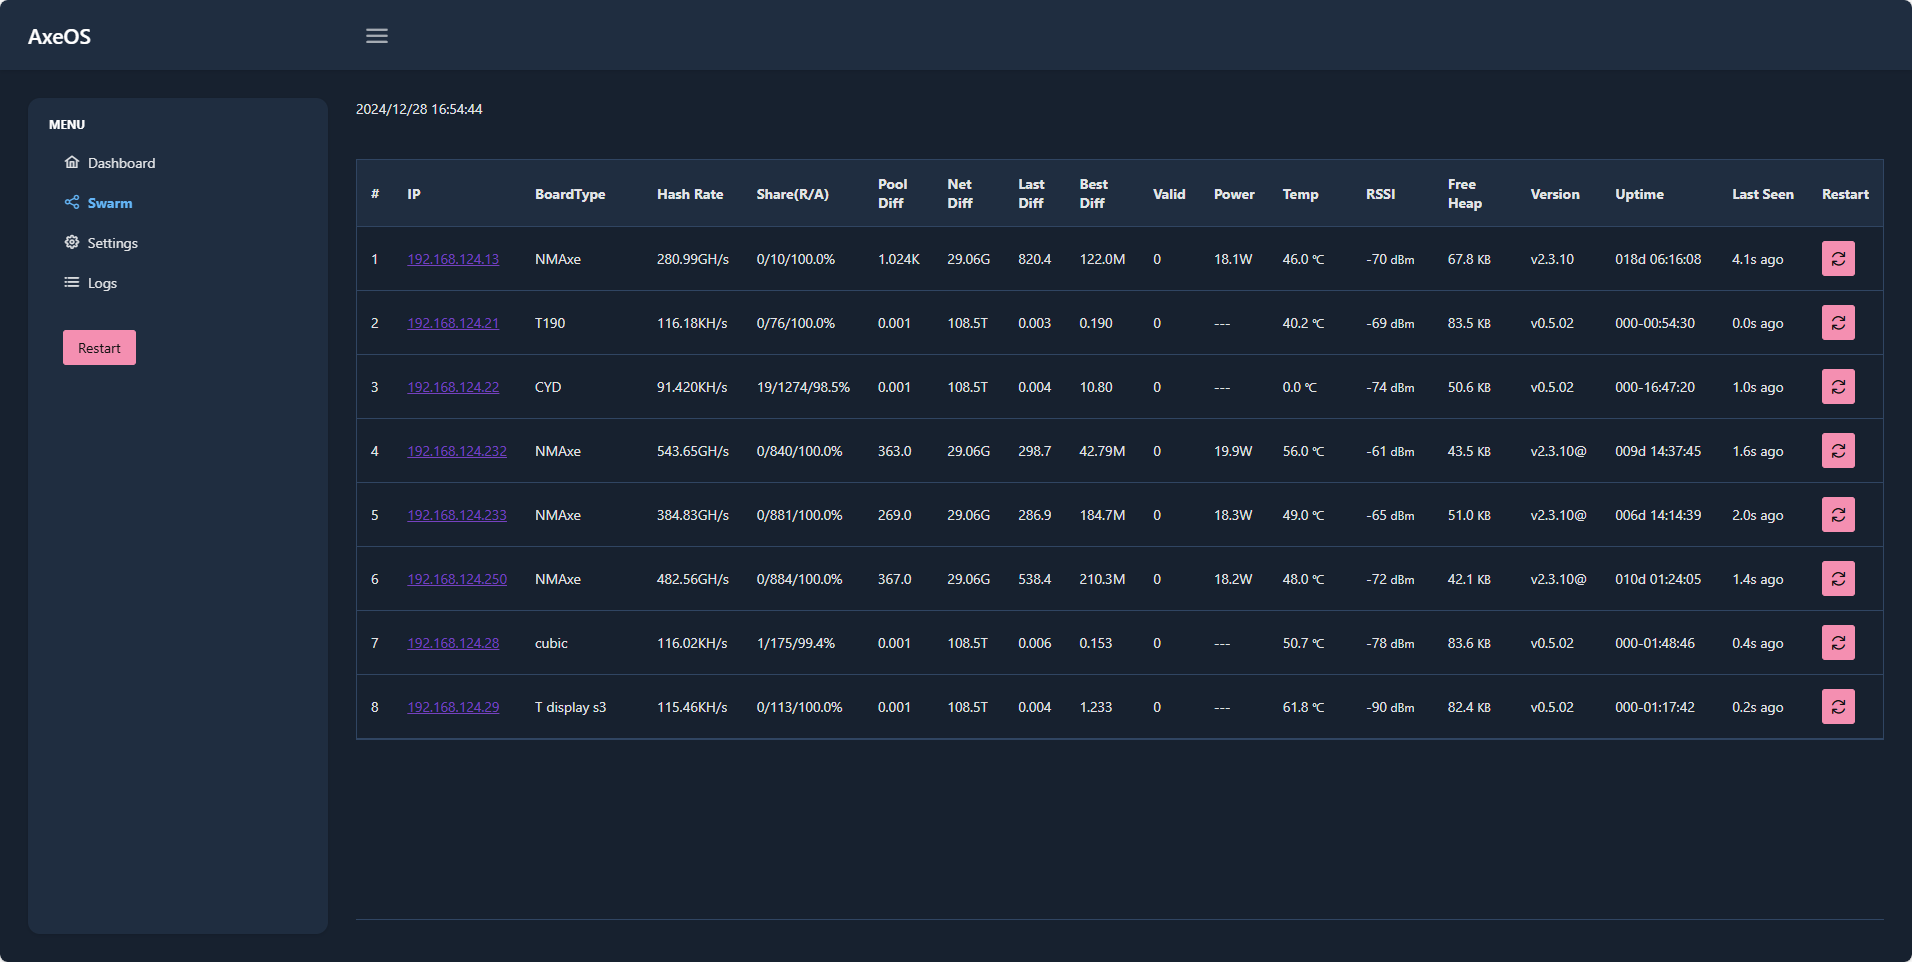
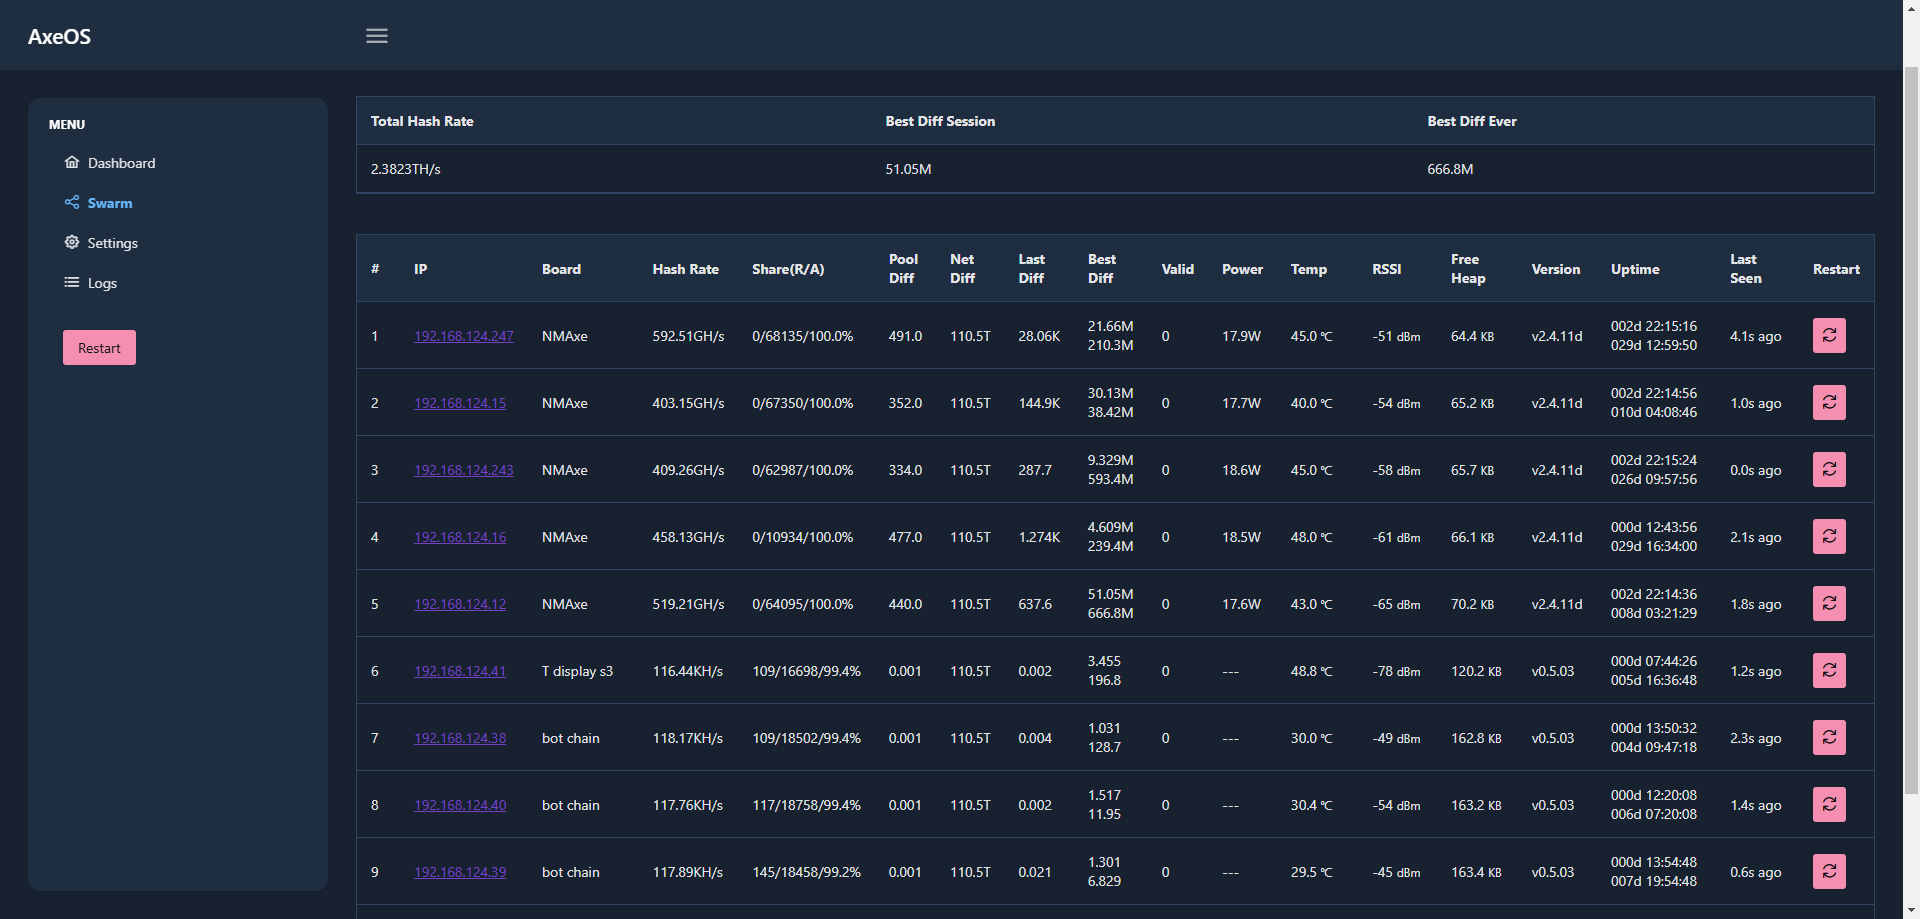
v2.1.12

diff --git a/src/global.h b/src/global.h
@@ -9,7 +9,7 @@
 #include "miner.h"
 #include "market.h"
 
-#define CURRENT_FW_VERSION  "v2.4.11c"
+#define CURRENT_FW_VERSION  "v2.4.12"
 #define CURRENT_HW_VERSION  "v1.1.1"
 
 

diff --git a/readme.md b/readme.md
@@ -131,6 +131,17 @@ Download the latest **firmware.bin** and **spiffs.bin** file.
 ## Release Log
 ***
 
+### (2025.01.19) - v2.4.12
+- Add:
+  - Column sort feature for swarm.
+  - Summary of swarm list.
+- Fixed:
+  - None
+- Improved:
+ - BM1366 class.
+- Modify:
+  - Input voltage danger threshold to 5v. 
+
 ### (2025.01.09) - v2.4.11
 - Add:
   - None